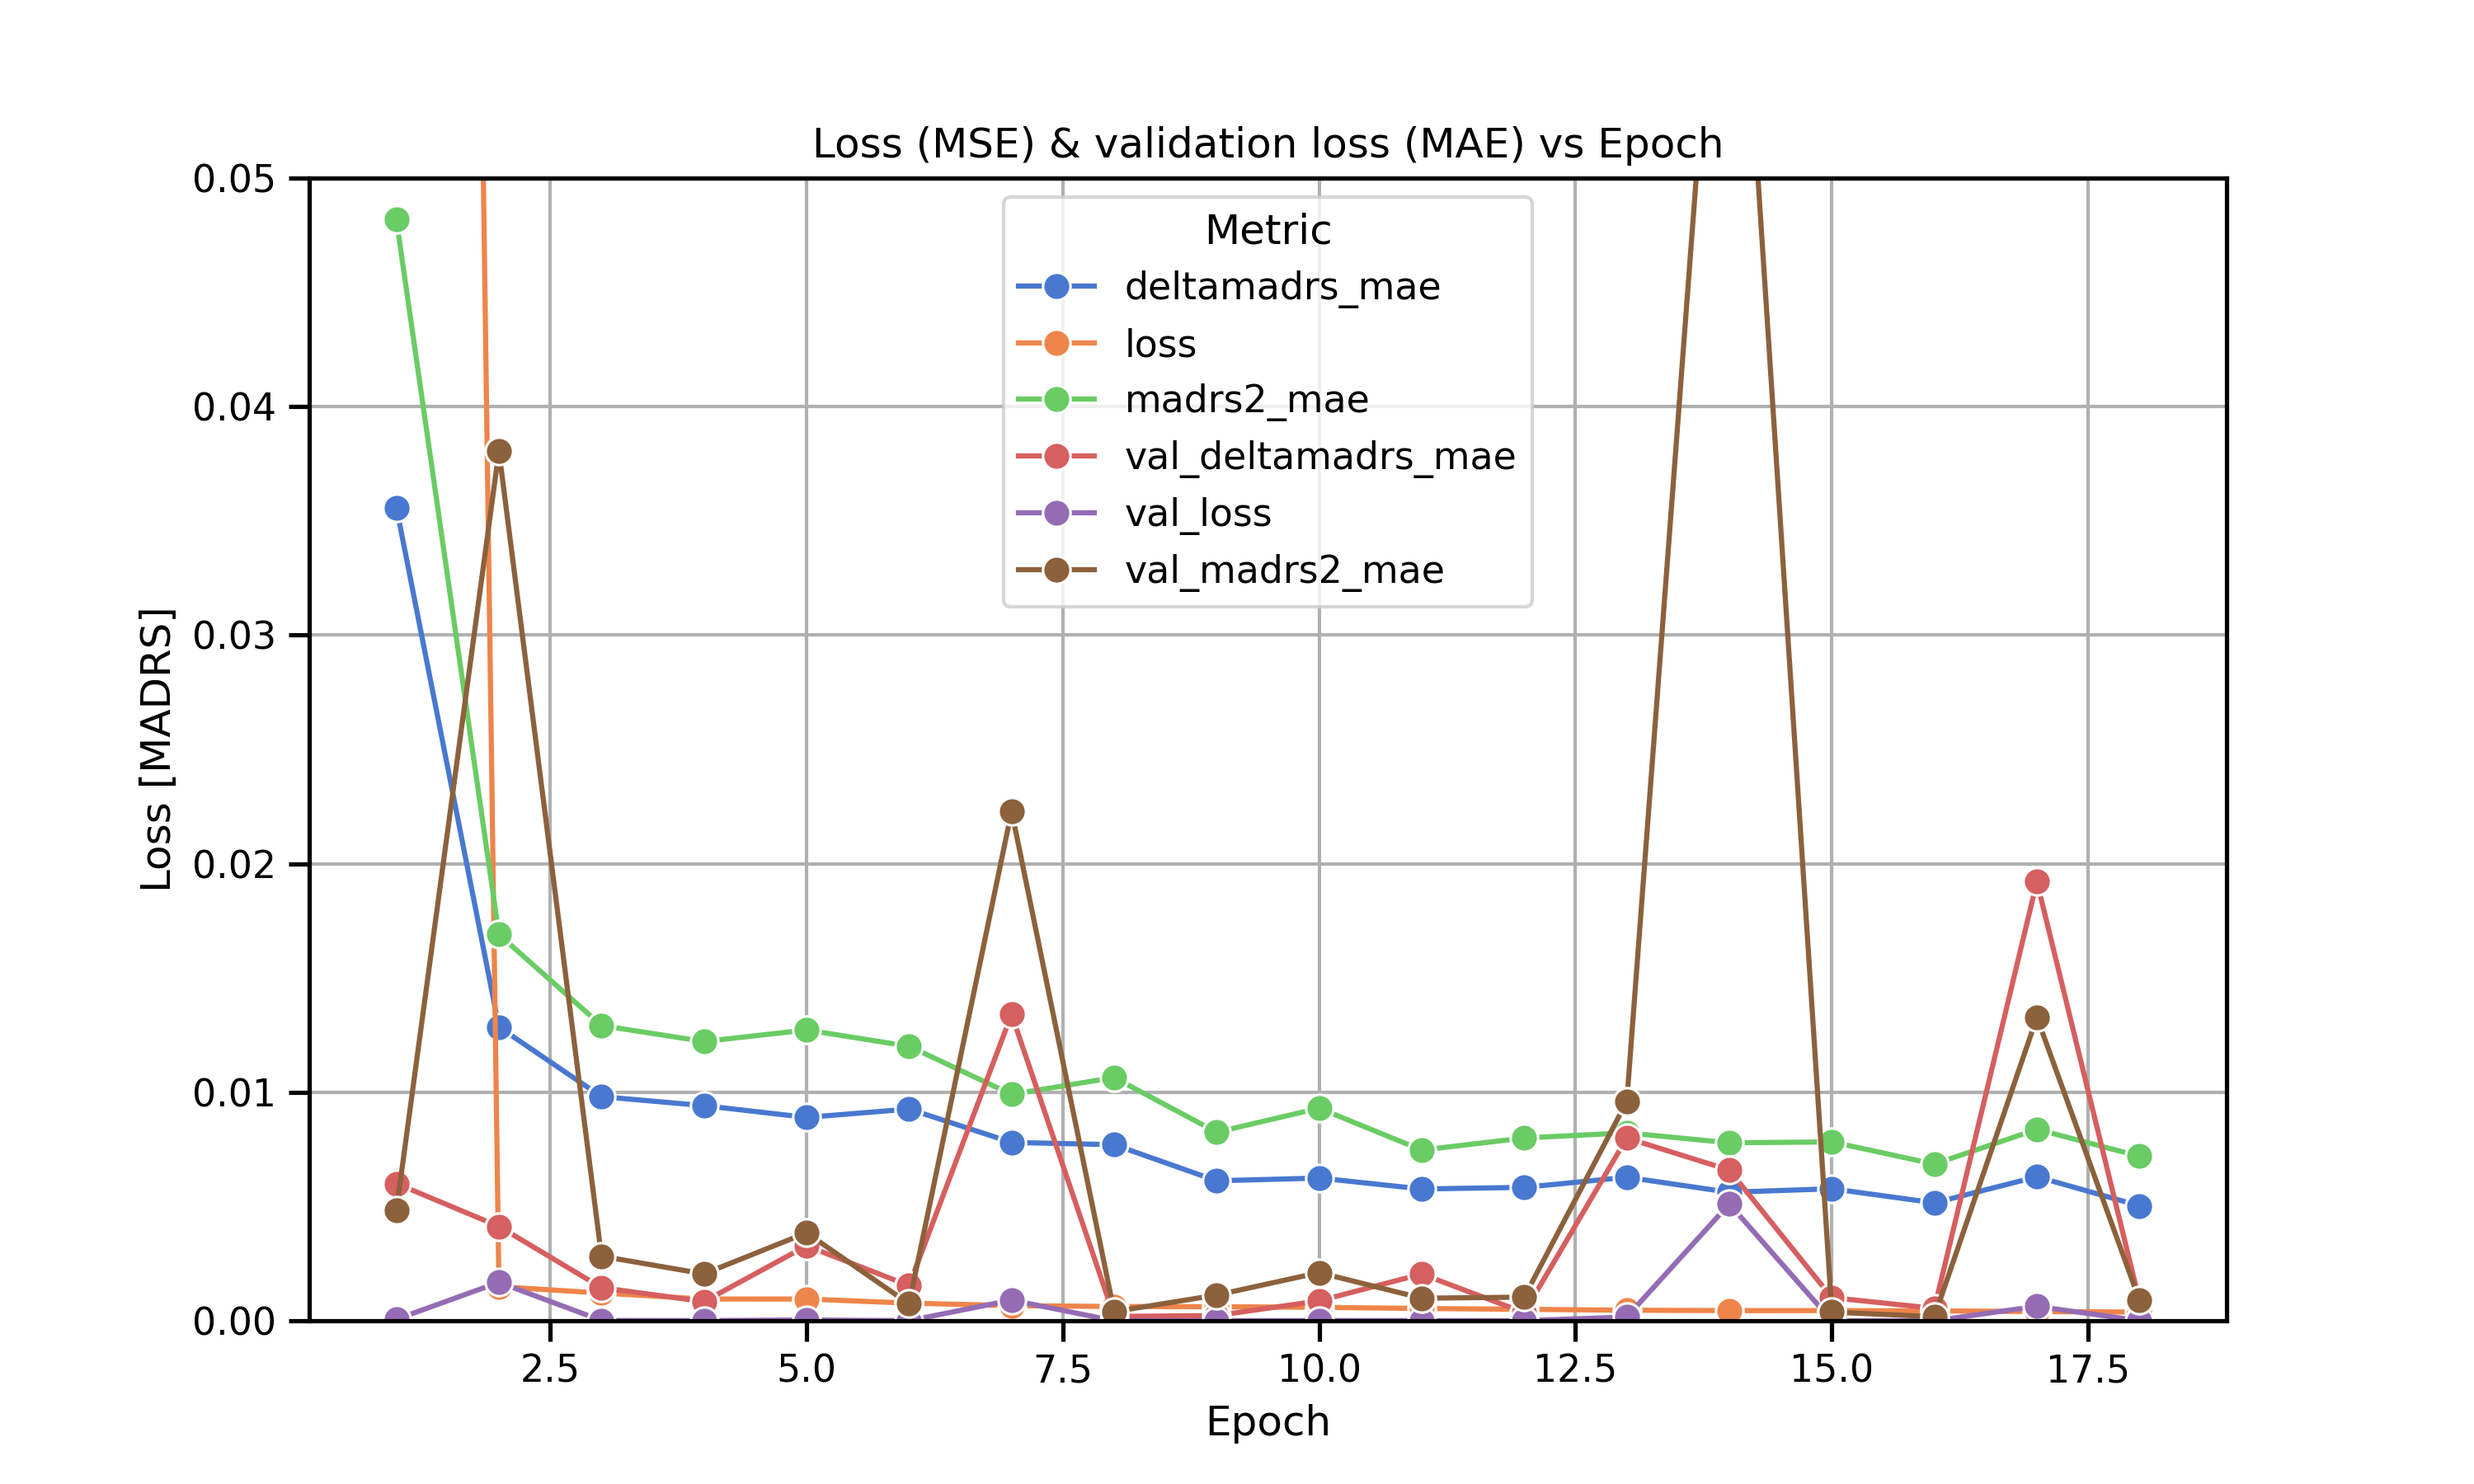
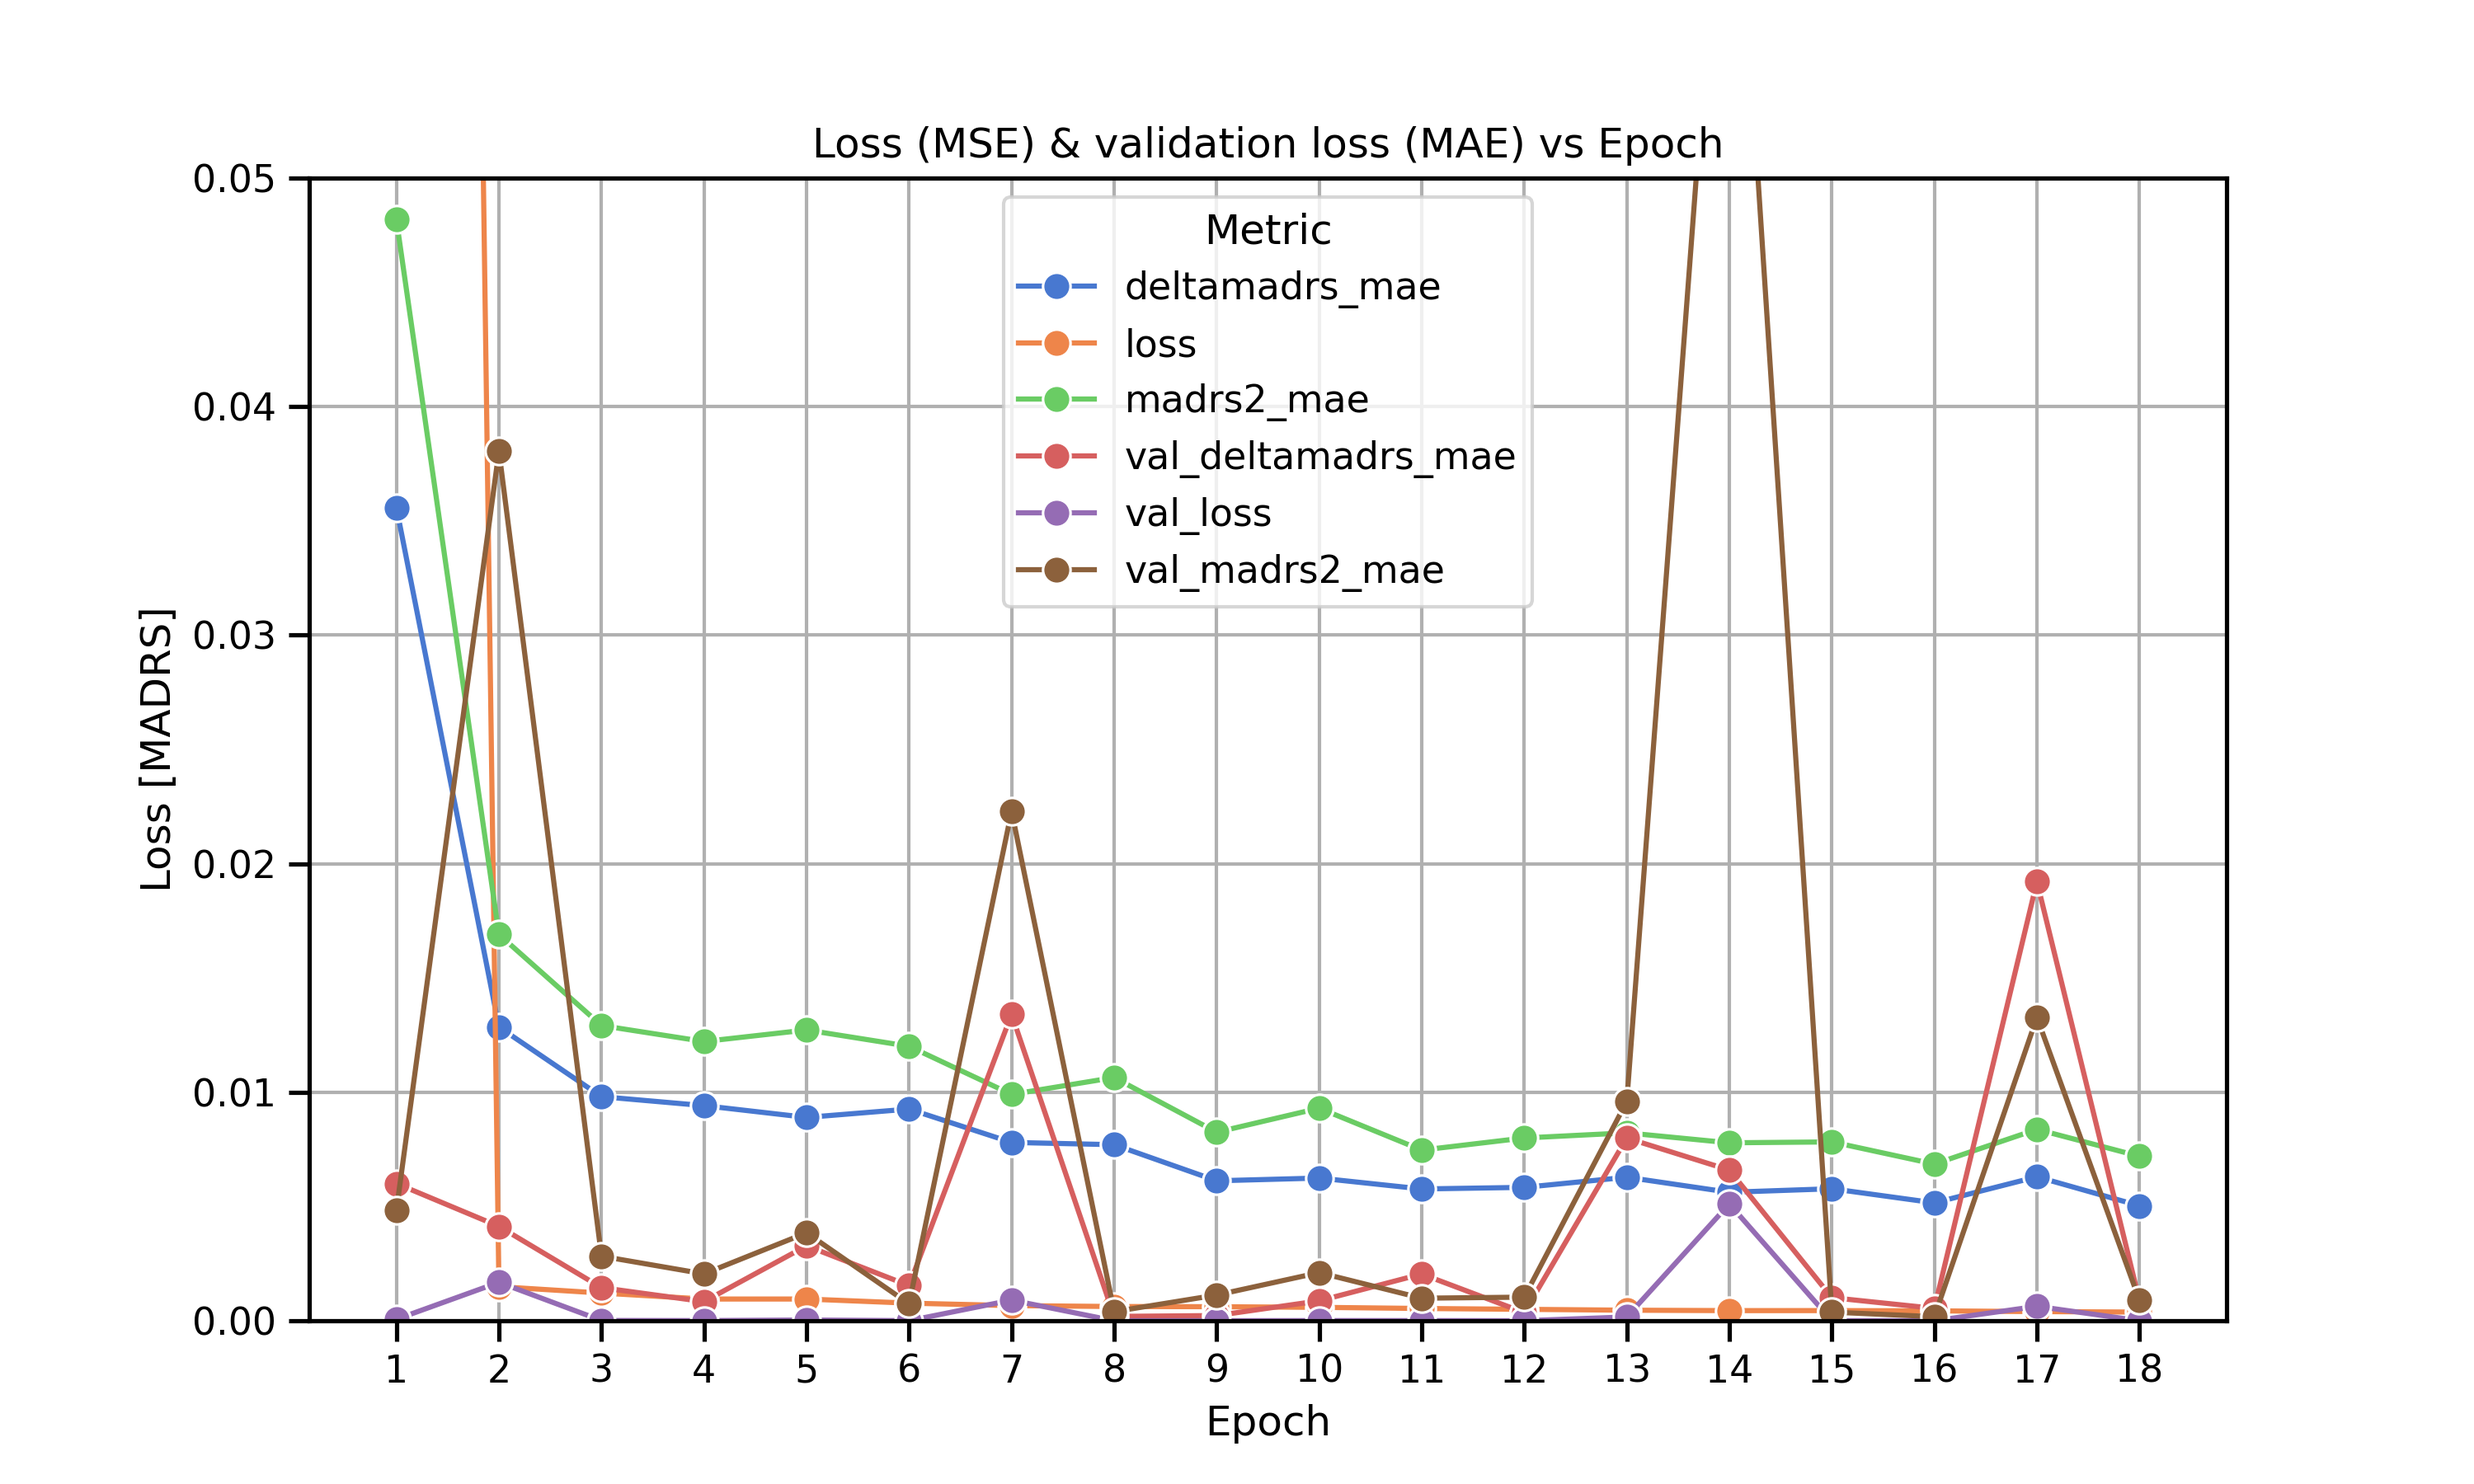
readme updated - fill in statistics when available

diff --git a/eval.py b/eval.py
@@ -34,6 +34,7 @@ plt.legend(title="Metric")
 plt.grid(True)
 
 plt.ylim(0, 0.05)
+plt.xticks(losses_df["epoch"].astype(int))
 
 plt.savefig("results/all_losses.png", dpi=300)
 

diff --git a/readme.md b/readme.md
@@ -61,26 +61,26 @@ states based on sensor data".
 - **Raw Data Samples:** 23
 
 ### Performance Metrics
-- **Mean Squared Error:** 5.147e-02
-- **Root Mean Squared Error:** 2.269e-01
-- **Mean Absolute Error:** 1.450e-01
-- **R-squared:** 0.998
+- **Mean Squared Error:** TBD
+- **Root Mean Squared Error:** TBD
+- **Mean Absolute Error:** TBD
+- **R-squared:** TBD
 
 Anti-overfitting measures - dropout layers, L2 regularization, and early stopping (not triggered) - are implemented. 
 For smaller datasets, it can be easy to train to specific data rather than learning more holistically (e.g. noise 
 is fitted into the model).
 
-Mean Absolute Error (MAE) of 0.145 indicates the average absolute difference between predicted and actual values.
+Mean Absolute Error (MAE) of ___ indicates the average absolute difference between predicted and actual values.
 The value predicted is represented in the source data as 'madrs2', and the context of this number means anything of the 
-order <1 means an accurate prediction is made. Additionally, 99.8% of the variance in the prediction is explained within
+order <1 means an accurate prediction is made. Additionally, ___% of the variance in the prediction is explained within
 the model (R-squared) - this indicates the data is fitted well. Samples tested on: 23 × 30% = 6.9 => 7.
 
-Relative MAE = MAE / MADRS range = (0.145 / 60) × 100 = 0.242%
+Relative MAE = MAE / MADRS range = (__ / 60) × 100 = __%
 
-Here I ran an overfitted epochs number to demonstrate the anti-overfitting callback `early_stopping` with `patience=5` 
-identifying 10 epochs as the limit before overfitting starts to occur:
+Here I ran with anti-overfitting callback `early_stopping`, with `patience=10` 
+stopping training 18 epochs.
 
-![Model losses image](model_losses.png)
+![Model losses image](results/all_losses.png)
 
 ## Future considerations
 - **Initial data dependency:** Train the model without initial MADRS score, eliminating the need for initial MADRS test.
